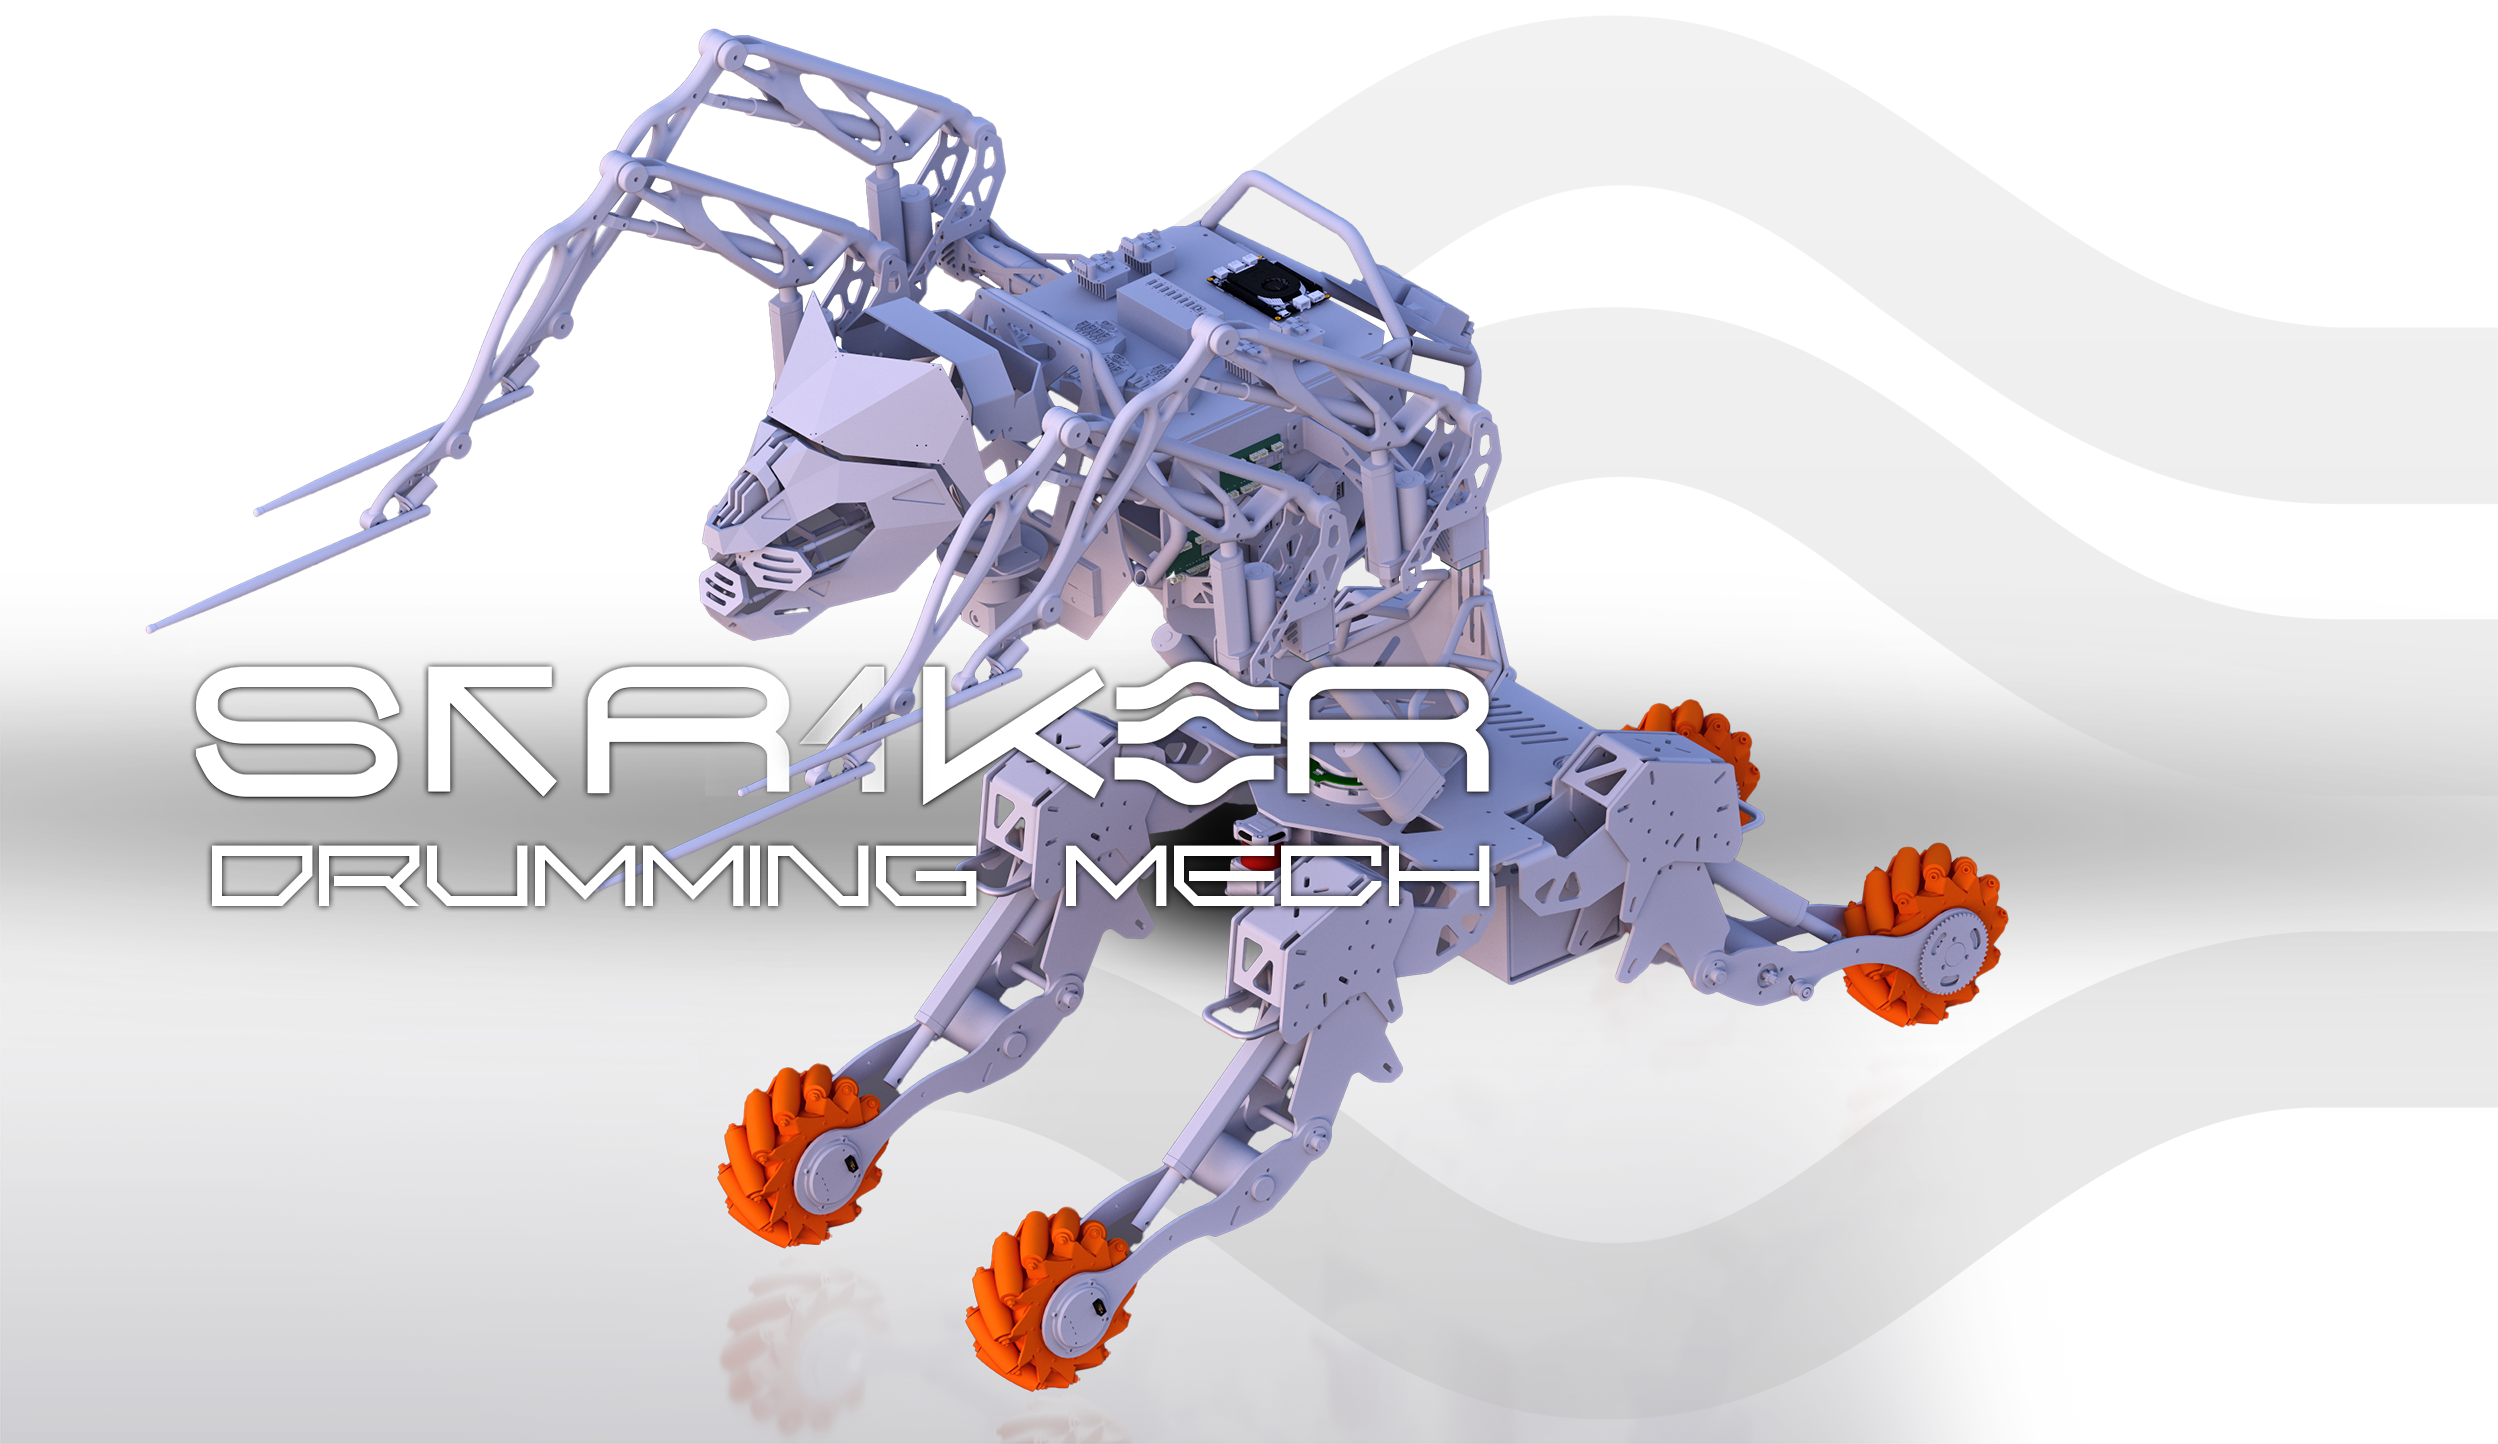
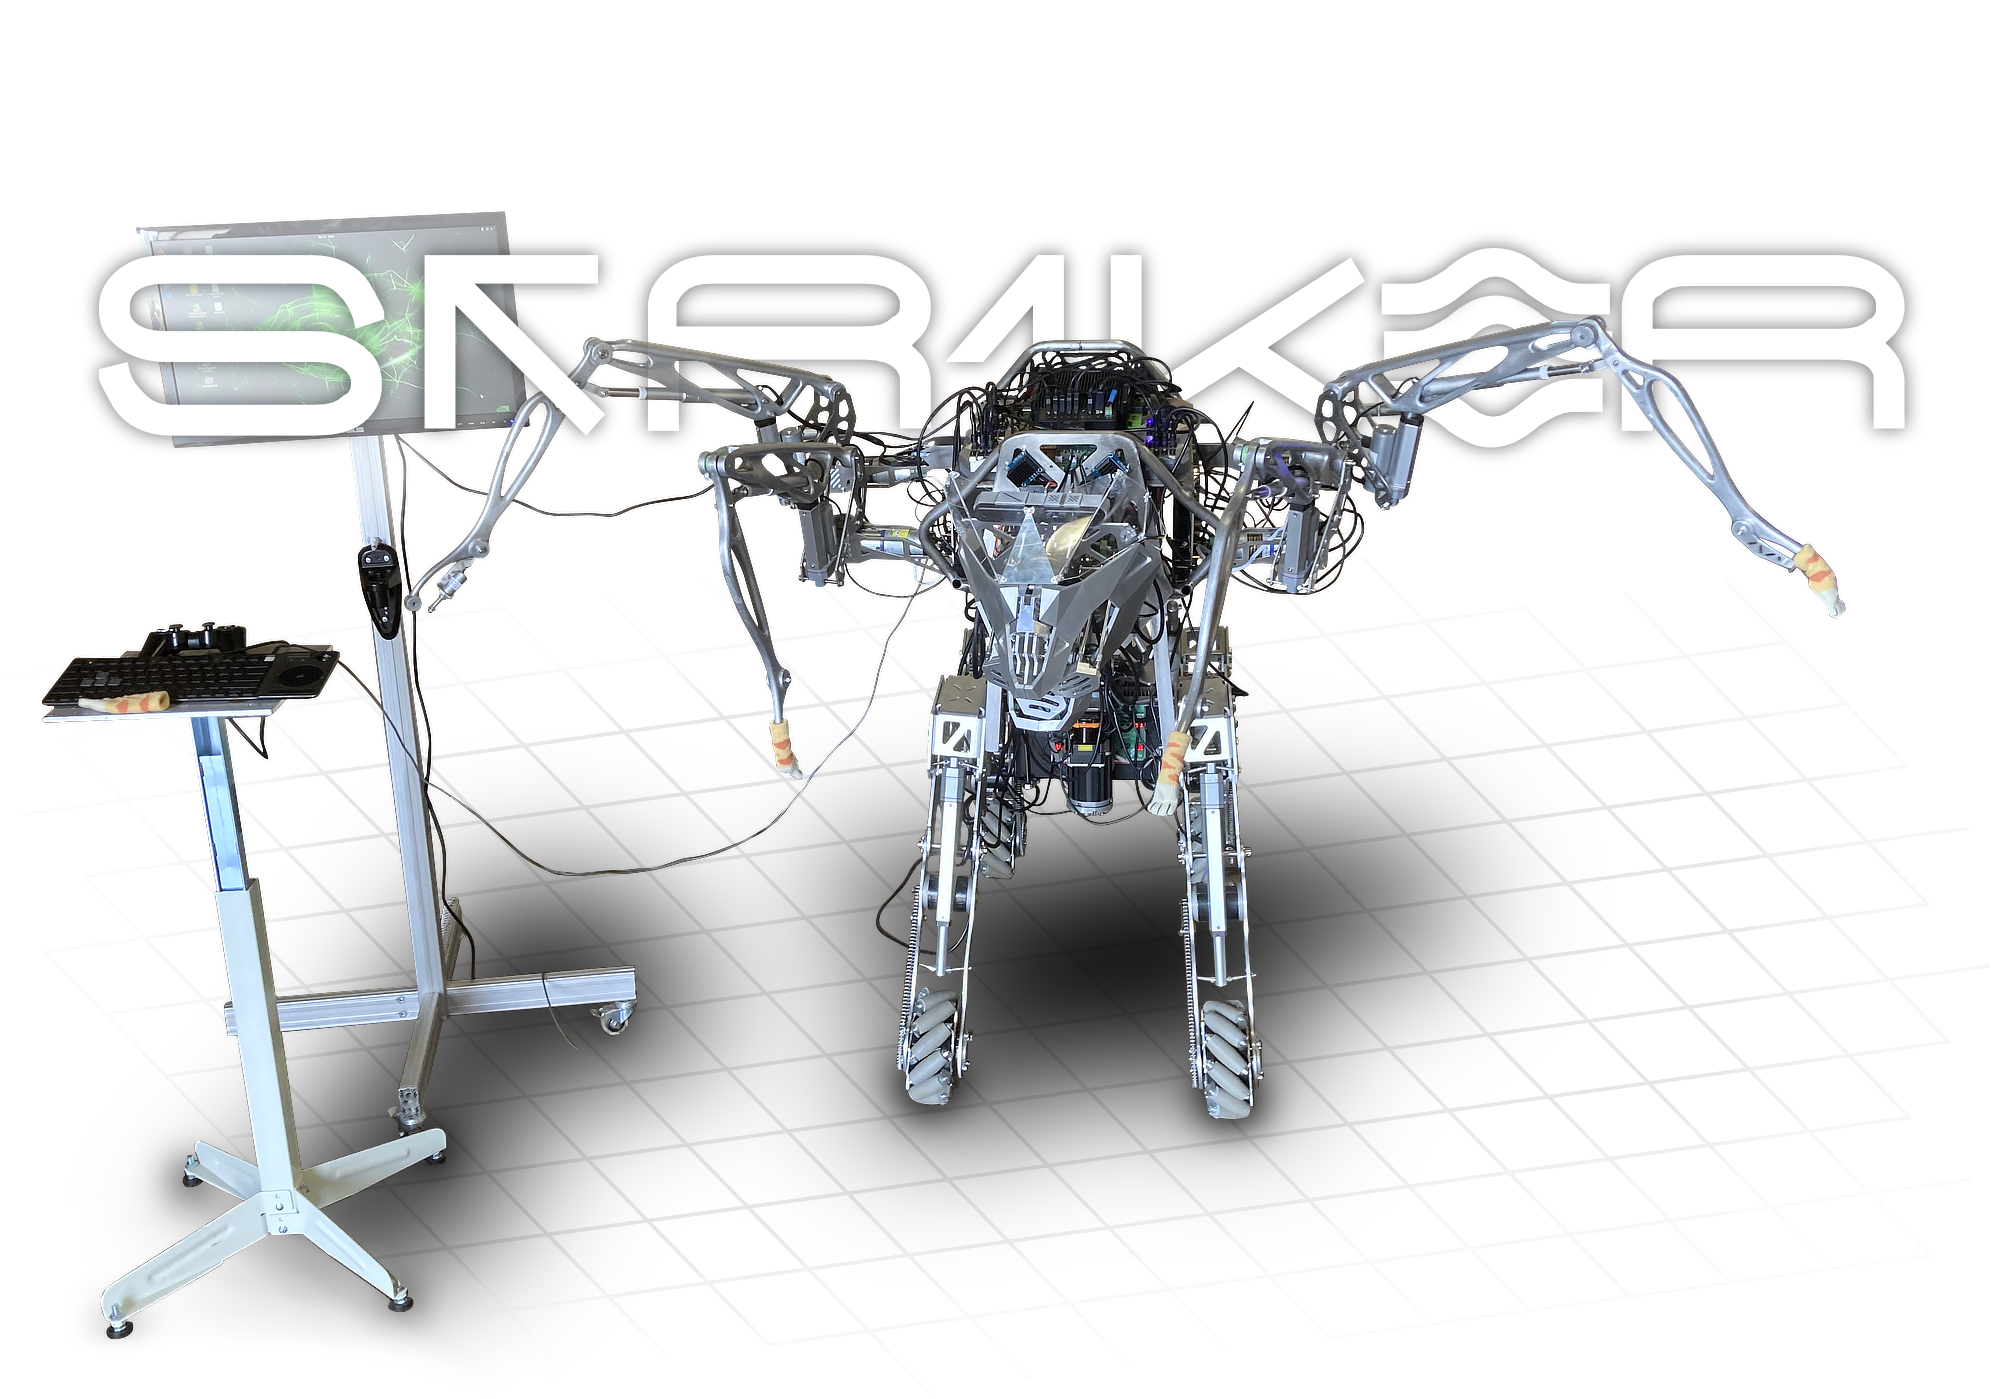
Modernize readme

diff --git a/readme.md b/readme.md
@@ -1,6 +1,6 @@
 # Str1ker: The Drumming Mech
 
-This repository contains source code, mechanical parts, and printed circuit boards for [Str1ker](https://www.01binary.us/projects/drumming-robot/) drumming robot.
+> [Str1ker](https://www.01binary.us/projects/drumming-robot/) is a human size, open-source mech integrated with Robot Operating System.
 
 ![body](./readme/hero.png)
 
@@ -9,6 +9,10 @@ This repository contains source code, mechanical parts, and printed circuit boar
 Striker is a human-scale teleoperated mech built with metal casting, CNC machining, 3D printing, sheet metal parts, tube frame chassis, and pre-made components.
 
 > This open-source educational project features custom electronics and [Robot Operating System](https://www.ros.org/) integration, demonstrating how to design and build a large robot that combines mobility, sensing, and manipulation.
+
+| | | |
+|-|-|-|
+|![photo 1](./readme/photo%201.png)|![photo 3](./readme/photo%203.png)|![photo 2](./readme/photo%202.png)|
 
 The robot moves on a mecanum base, articulates its head and arms, and visualizes live lidar and RGB-D perception in Robot Visualization tool ([RViz](https://wiki.ros.org/rviz/Tutorials)).
 
